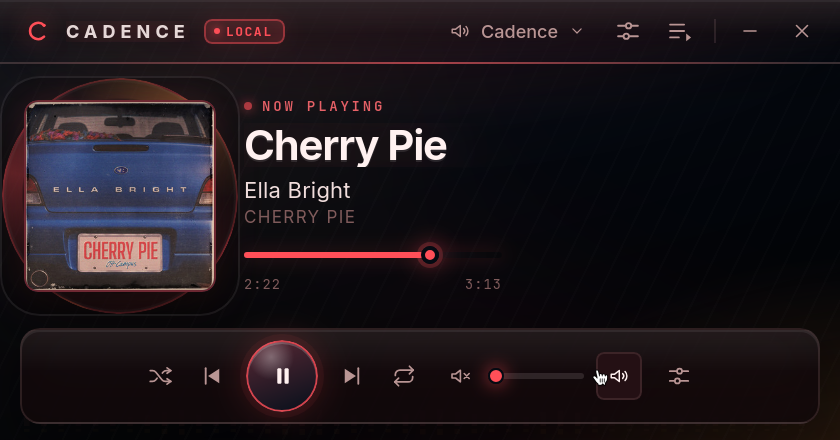
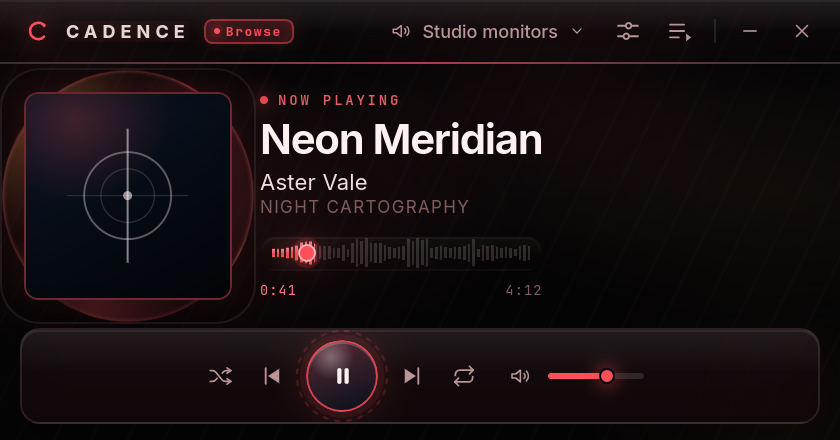
docs(screenshots): refresh skin gallery for the current UI
Regenerate the nine skin screenshots from the current build in demo mode with the English UI, and add the Lumina Ember shot to the README gallery.

diff --git a/README.md b/README.md
@@ -152,6 +152,8 @@ Clarity is the built-in native skin and the fallback when a declarative skin can
 
 ![Lumina Carbon](docs/screenshots/lumina-carbon.png)
 
+![Lumina Ember](docs/screenshots/lumina-ember.png)
+
 An original design inspired by the Windows Media Player era: chrome surfaces, animated ambient light, a rotating album-art halo, LED status accents and four themes (Azure, Carbon, Ember, Violet).
 </details>
 
